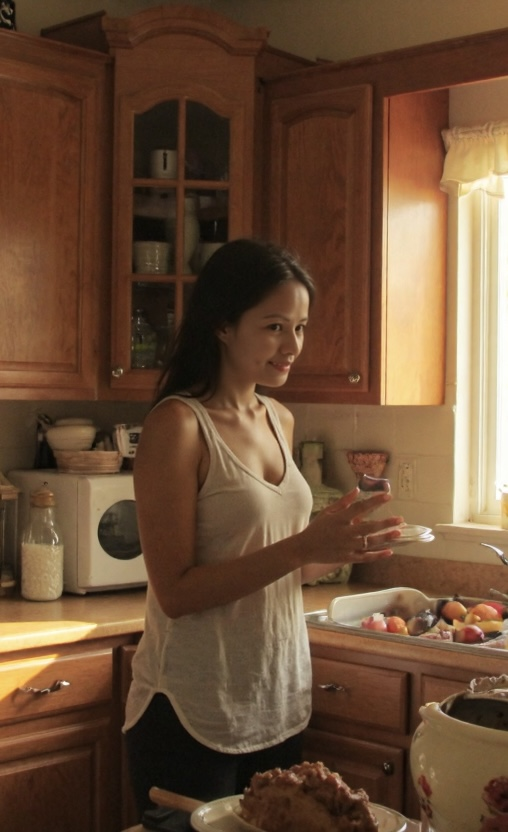
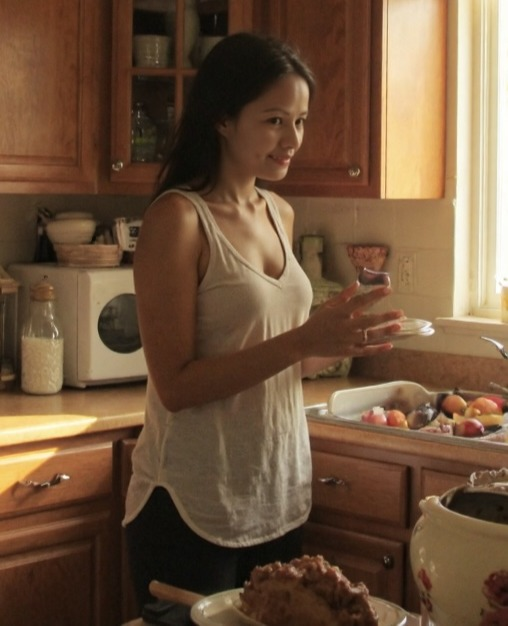
Add story assets and update page images
Add multiple image assets to Story_Assets (Delicious_Fear_2.png, IMG_6750.PNG, IMG_6752.PNG, domestic-helper-01.PNG, domestic-helper-12.PNG, plaything (3).png) and update stories/employers-playground.html to reference these new files. Replaces the hero, portrait, gallery and film-note image references (e.g. plaything (2).jpg used as the hero, domestic-helper-12.PNG for the portrait, domestic-helper-01.PNG and IMG_6750.PNG in the photo grid, and IMG_6752.PNG for the media panel) and adjusts one gallery caption. Also updates an existing plaything (2).jpg binary. Ensures the page markup points to the newly added assets.

diff --git a/stories/employers-playground.html b/stories/employers-playground.html
@@ -26,7 +26,7 @@
 
   <!-- ── COVER / HERO ── -->
   <div class="story-detail-cover">
-    <img class="story-detail-cover-img" src="../Story_Assets/joyce_pov_kiss.PNG" alt="A cinematic portrait for the story hero">
+    <img class="story-detail-cover-img" src="../Story_Assets/plaything (2).jpg" alt="A cinematic portrait for the story hero">
   </div>
 
   <div class="story-detail-wrap story-feature-wrap">
@@ -43,13 +43,13 @@
       </section>
 
       <section class="story-photo-panel story-photo-panel-portrait">
-        <img src="../Story_Assets/plaything (6).JPG" alt="Portrait image for the opening chapter">
+        <img src="../Story_Assets/domestic-helper-12.PNG" alt="Portrait image for the opening chapter">
         <p class="story-photo-caption">A quiet frame at the edge of the day.</p>
       </section>
 
       <section class="story-photo-grid story-photo-grid-two">
-        <figure class="story-photo-card"><img src="../Story_Assets/plaything (1).jpg" alt="Atmospheric image 1"><figcaption>Light on the hallway.</figcaption></figure>
-        <figure class="story-photo-card"><img src="../Story_Assets/plaything (2).jpg" alt="Atmospheric image 2"><figcaption>Gentle texture and shadow.</figcaption></figure>
+        <figure class="story-photo-card"><img src="../Story_Assets/domestic-helper-01.PNG" alt="Atmospheric image 1"><figcaption>Looks so Tired.</figcaption></figure>
+        <figure class="story-photo-card"><img src="../Story_Assets/IMG_6750.PNG" alt="Atmospheric image 2"><figcaption>Gentle texture and shadow.</figcaption></figure>
       </section>
 
       <section class="story-feature-block">
@@ -58,7 +58,7 @@
 
       <section class="story-media-panel">
         <div class="story-video-frame">
-          <img src="../Story_Assets/plaything (3).JPG" alt="Film note image for the first reel">
+          <img src="../Story_Assets/IMG_6752.PNG" alt="Film note image for the first reel">
           <span class="story-media-label">Film note 1</span>
         </div>
         <p class="story-feature-caption">A slow reel of atmosphere, suspended between memory and anticipation.</p>